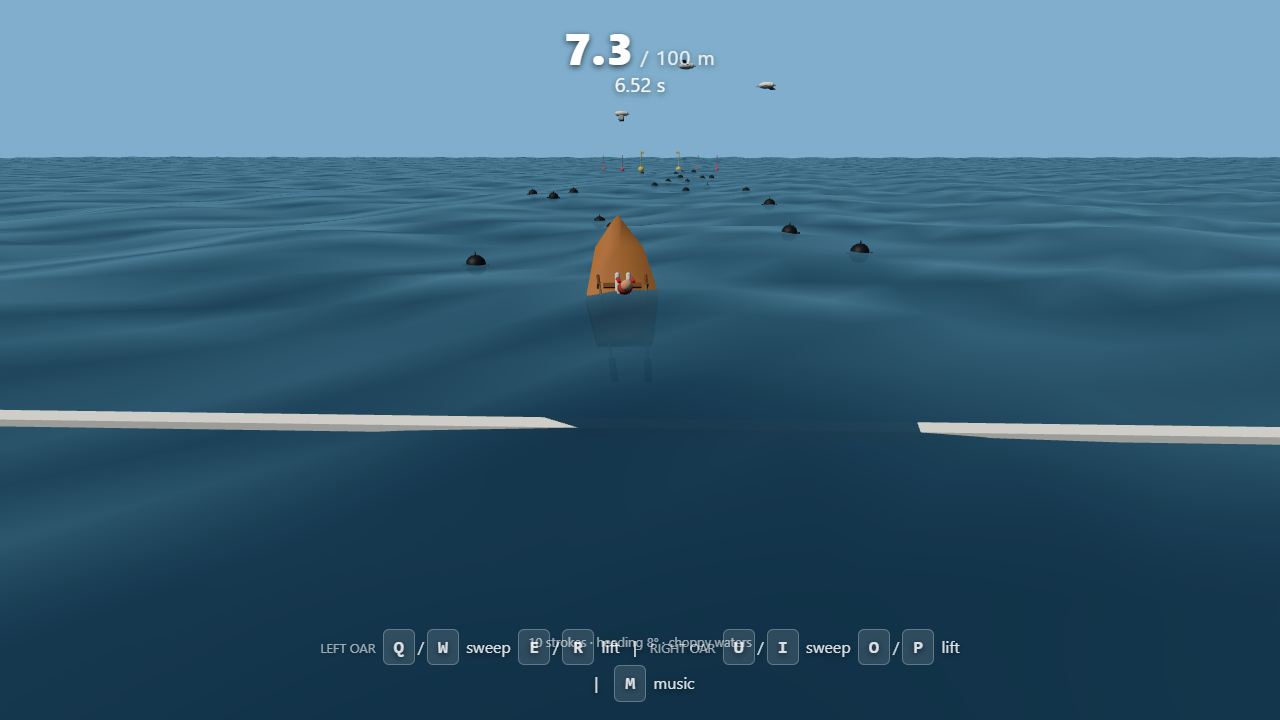
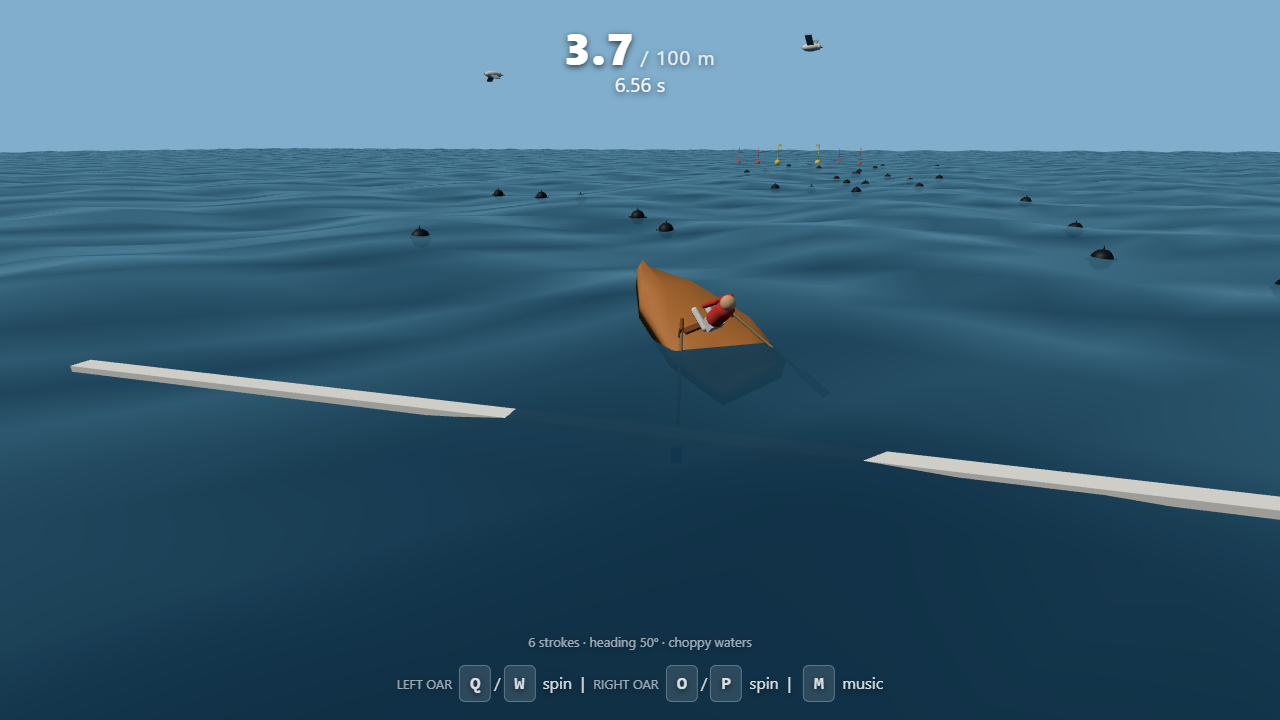
Double mine field width (x2 mine count), W/E + I/O key swap, control style picker synced to guests

diff --git a/index.html b/index.html
@@ -29,6 +29,9 @@
   #overlay button{font-size:19px;padding:11px 34px;border-radius:10px;border:1px solid rgba(255,255,255,.4);background:rgba(255,255,255,.12);color:#fff;cursor:pointer;letter-spacing:2px;margin:6px;}
   #overlay button:hover:not(:disabled){background:rgba(255,255,255,.25);}
   #overlay button:disabled{opacity:.35;cursor:default;}
+  #styleRow{display:flex;align-items:center;gap:8px;margin-top:14px;}
+  #styleRow button{font-size:15px;padding:8px 18px;margin:0;}
+  #styleRow button.active{background:rgba(255,215,107,.35);border-color:#ffd76b;}
   #modeRow{display:flex;gap:10px;justify-content:center;flex-wrap:wrap;}
   #joinRow{display:flex;gap:8px;justify-content:center;margin-top:6px;}
   #joinCode{font-size:20px;padding:8px 14px;border-radius:8px;border:1px solid rgba(255,255,255,.35);background:rgba(0,0,0,.3);color:#fff;text-transform:lowercase;width:190px;font-family:monospace;}
@@ -66,23 +69,24 @@
 <div id="stroke" class="hud"></div>
 <div id="msg" class="hud"></div>
 
-<div id="keys" class="hud">
-  <span class="lbl">LEFT OAR</span> <b>Q</b>/<b>W</b> sweep <b>E</b>/<b>R</b> lift
-  &nbsp;&nbsp;|&nbsp;&nbsp;
-  <span class="lbl">RIGHT OAR</span> <b>U</b>/<b>I</b> sweep <b>O</b>/<b>P</b> lift
-  &nbsp;&nbsp;|&nbsp;&nbsp; <b>M</b> music
-</div>
+<div id="keys" class="hud"></div>
 
 <div id="overlay">
   <h1>R O W P</h1>
-  <h2>steer between the yellow buoys to finish. seagulls bite.</h2>  <div class="k">
+  <h2>steer between the yellow buoys to finish. seagulls bite.</h2>
+  <div class="k" id="ctrlHelp">
     <b>Q</b><b>W</b><b>E</b><b>R</b> left oar &nbsp; <b>U</b><b>I</b><b>O</b><b>P</b> right oar
   </div>
-  <p>
+  <div id="styleRow">
+    <span style="opacity:.6;font-size:13px;">CONTROLS:</span>
+    <button id="btnStyleSpin">SPIN (360° oars)</button>
+    <button id="btnStyleSweep">SWING ±90° + LIFT</button>
+  </div>
+  <p id="ctrlDesc">
     Each oar has its rotation AND lift under your control. One stroke, the
     full circle: <b>R</b> dunk the blade, <b>Q</b> sweep it aft through the
-    water, <b>E</b> lift it out, <b>W</b> swing it forward, repeat. Right
-    oar: dunk <b>P</b>, pull <b>U</b>, lift <b>O</b>, forward <b>I</b>.
+    water, <b>W</b> lift it out, <b>E</b> swing it forward, repeat. Right
+    oar: dunk <b>P</b>, pull <b>U</b>, lift <b>I</b>, forward <b>O</b>.
     Feathers only exist where you put them — blade in the water going the
     wrong way is a brake. Mines, seagulls and waves do the rest.
   </p>
@@ -747,7 +751,7 @@ document.addEventListener('keydown', () => A.ensure(), { once: true });
 /* ============================================================
    SEA MINES — deterministic per race seed, proximity blast
    ============================================================ */
-const MINE_COUNT = 22;
+const MINE_COUNT = 30;
 const mineMat = new THREE.MeshStandardMaterial({ color: 0x16202a, roughness: 0.45, metalness: 0.4 });
 const mineLed = new THREE.MeshStandardMaterial({ color: 0xff2200, emissive: 0xff2200, emissiveIntensity: 2 });
 
@@ -782,7 +786,7 @@ function spawnMines(seedRng) {
     const led = new THREE.Mesh(new THREE.SphereGeometry(0.05, 6, 5), mineLed);
     led.position.y = 0.28;
     grp.add(led);
-    const mx = (seedRng() * 2 - 1) * 10.5;
+    const mx = (seedRng() * 2 - 1) * 21;
     const mz = 10 + (i * 86) / MINE_COUNT + seedRng() * 3.2;
     grp.position.set(mx, waveHeight(mx, mz, S.t) - 0.1, mz);
     mines.add(grp);
@@ -924,6 +928,7 @@ function showMsg(txt, color) {
 }
 
 let raceActive = false;
+let controlStyle = localStorage.getItem('rowp_style') || 'spin';
 
 function laneX(idx, n) {
   const off = idx - (n - 1) / 2;
@@ -971,6 +976,31 @@ function beginRace(seed, lane) {
   camPos.set(0, 3.4, -8);
   $('overlay').classList.add('hidden');
   A.goBoop();
+}
+
+function setControlStyle(style) {
+  controlStyle = style;
+  localStorage.setItem('rowp_style', style);
+  $('btnStyleSpin').classList.toggle('active', style === 'spin');
+  $('btnStyleSweep').classList.toggle('active', style === 'sweep');
+  $('ctrlHelp').innerHTML = style === 'spin'
+    ? '<b>Q</b>/<b>W</b> left oar spin &nbsp; <b>O</b>/<b>P</b> right oar spin'
+    : '<b>Q</b>/<b>E</b> left sweep &nbsp; <b>W</b>/<b>R</b> left lift &nbsp; <b>U</b>/<b>O</b> right sweep &nbsp; <b>I</b>/<b>P</b> right lift';
+  $('ctrlDesc').innerHTML = style === 'spin'
+    ? 'Classic rowing: press <b>Q</b>/<b>W</b> to spin the left oar in a full circle, <b>O</b>/<b>P</b> for the right. The blade dips and lifts itself as it rotates — find the power arc, avoid the backwater. Mines, seagulls and waves do the rest.'
+    : 'Each oar has sweep AND lift: <b>R</b> dunk, <b>Q</b> pull aft, <b>W</b> lift, <b>E</b> swing forward (right oar: <b>P</b>, <b>U</b>, <b>I</b>, <b>O</b>). The sweep is limited to ±90° — row the full rotation by timing lift and dunk. Mines, seagulls and waves do the rest.';
+  updateKeysHud();
+}
+
+function updateKeysHud() {
+  $('keys').innerHTML = controlStyle === 'spin'
+    ? `<span class="lbl">LEFT OAR</span> <b>Q</b>/<b>W</b> spin&nbsp;&nbsp;|&nbsp;&nbsp;<span class="lbl">RIGHT OAR</span> <b>O</b>/<b>P</b> spin&nbsp;&nbsp;|&nbsp;&nbsp;<b>M</b> music`
+    : `<span class="lbl">LEFT OAR</span> <b>Q</b>/<b>E</b> sweep <b>W</b>/<b>R</b> lift&nbsp;&nbsp;|&nbsp;&nbsp;<span class="lbl">RIGHT OAR</span> <b>U</b>/<b>O</b> sweep <b>I</b>/<b>P</b> lift&nbsp;&nbsp;|&nbsp;&nbsp;<b>M</b> music`;
+}
+
+function initStyleUI() {
+  $('btnStyleSpin').onclick = () => setControlStyle('spin');
+  $('btnStyleSweep').onclick = () => setControlStyle('sweep');
 }
 
 let endTimer = -1;
@@ -1085,16 +1115,38 @@ function step(dt) {
     prevSubL = subL; prevSubR = subR;
   }
   const kk = raceActive ? keys : EMPTY;
-  const kL = clamp1((kk.KeyQ ? 1 : 0) - (kk.KeyW ? 1 : 0) + touchAxisL.x);
-  const kR = clamp1((kk.KeyU ? 1 : 0) - (kk.KeyI ? 1 : 0) + touchAxisR.x);
-  const hL = clamp1((kk.KeyE ? 1 : 0) - (kk.KeyR ? 1 : 0) + touchAxisL.y);
-  const hR = clamp1((kk.KeyO ? 1 : 0) - (kk.KeyP ? 1 : 0) + touchAxisR.y);
+  const spin = controlStyle === 'spin';
+  const kL = spin
+    ? clamp1((kk.KeyQ ? 1 : 0) - (kk.KeyW ? 1 : 0) + touchAxisL.x)
+    : clamp1((kk.KeyQ ? 1 : 0) - (kk.KeyE ? 1 : 0) + touchAxisL.x);
+  const kR = spin
+    ? clamp1((kk.KeyO ? 1 : 0) - (kk.KeyP ? 1 : 0) + touchAxisR.x)
+    : clamp1((kk.KeyU ? 1 : 0) - (kk.KeyO ? 1 : 0) + touchAxisR.x);
+  let hL, hR;
+  if (spin) {
+    // blade depth follows the sweep automatically (like classic rowing oars)
+    const uL = Math.cos(S.aL), uR = Math.cos(S.aR);
+    const dL = uL > 0 ? -0.52 * uL * uL : 0.55 * uL * uL;
+    const dR = uR > 0 ? -0.52 * uR * uR : 0.55 * uR * uR;
+    const lamL = Math.asin(Math.max(-0.98, Math.min(0.98, dL)));
+    const lamR = Math.asin(Math.max(-0.98, Math.min(0.98, dR)));
+    hL = clamp1((lamL - S.lL) * 4.5);
+    hR = clamp1((lamR - S.lR) * 4.5);
+  } else {
+    hL = clamp1((kk.KeyW ? 1 : 0) - (kk.KeyR ? 1 : 0) + touchAxisL.y);
+    hR = clamp1((kk.KeyI ? 1 : 0) - (kk.KeyP ? 1 : 0) + touchAxisR.y);
+  }
   S.aLv = oarAxisStep(S.aLv, kL, loadL, dt);
   S.aRv = oarAxisStep(S.aRv, kR, loadR, dt);
-  S.aL = Math.max(SWEEP_MIN, Math.min(SWEEP_MAX, S.aL + S.aLv * dt));
-  S.aR = Math.max(SWEEP_MIN, Math.min(SWEEP_MAX, S.aR + S.aRv * dt));
-  if ((S.aL <= SWEEP_MIN || S.aL >= SWEEP_MAX) && Math.sign(S.aLv) === Math.sign(S.aL)) S.aLv = 0;
-  if ((S.aR <= SWEEP_MIN || S.aR >= SWEEP_MAX) && Math.sign(S.aRv) === Math.sign(S.aR)) S.aRv = 0;
+  if (spin) {
+    S.aL += S.aLv * dt;
+    S.aR += S.aRv * dt;
+  } else {
+    S.aL = Math.max(SWEEP_MIN, Math.min(SWEEP_MAX, S.aL + S.aLv * dt));
+    S.aR = Math.max(SWEEP_MIN, Math.min(SWEEP_MAX, S.aR + S.aRv * dt));
+    if ((S.aL <= SWEEP_MIN || S.aL >= SWEEP_MAX) && Math.sign(S.aLv) === Math.sign(S.aL)) S.aLv = 0;
+    if ((S.aR <= SWEEP_MIN || S.aR >= SWEEP_MAX) && Math.sign(S.aRv) === Math.sign(S.aR)) S.aRv = 0;
+  }
   S.lLv = oarLiftStep(S.lLv, hL, subL > 0.3, dt);
   S.lRv = oarLiftStep(S.lRv, hR, subR > 0.3, dt);
   S.lL = Math.max(LIFT_MIN, Math.min(LIFT_MAX, S.lL + S.lLv * dt));
@@ -1284,8 +1336,11 @@ function showLobbyHost(code) {
   $('btnBegin').style.display = '';
 }
 function showLobbyGuest() {
+  $('overlay').classList.remove('hidden');
+  $('mpPanel').classList.add('show');
+  $('mpPanel').style.display = '';
   $('mpCode').textContent = 'joined!';
-  $('mpStatus').textContent = 'waiting for the host to start the race…';
+  $('mpStatus').textContent = `connected — ${controlStyle} controls (host's choice). Waiting for start…`;
 }
 function showOverlayLobby() {
   $('overlay').classList.remove('hidden');
@@ -1330,6 +1385,10 @@ function onData(d, c) {
       break;
     case 'id':
       net.myId = d.id;
+      if (d.style) {
+        controlStyle = d.style;
+        setControlStyle(controlStyle);
+      }
       showLobbyGuest();
       break;
     case 'goLane':
@@ -1439,7 +1498,7 @@ function hostGame() {
     c.on('open', () => {
       c._gid = net.nextId++;
       net.conns.push(c);
-      c.send({ t: 'id', id: c._gid });
+      c.send({ t: 'id', id: c._gid, style: controlStyle });
       ensureRemoteRig(getRemote(c._gid));
       refresh();
     });
@@ -1836,6 +1895,8 @@ function initTouch() {
 }
 
 /* boot */
+initStyleUI();
+setControlStyle(controlStyle);
 initUIMulti();
 initTouch();
 if (location.search.indexOf('demo') >= 0) {
@@ -1843,15 +1904,16 @@ if (location.search.indexOf('demo') >= 0) {
   ov.classList.add('hidden');
   ov.style.display = 'none';
   $('msg').style.opacity = 0;
+  controlStyle = 'sweep';
   beginRace(123456);
   const kk = keys;
   for (let i = 0; i < 390; i++) {
     const norm = a => { a = ((a % TAU) + TAU) % TAU; return a > Math.PI ? a - TAU : a; };
     const raL = norm(S.aL), raR = norm(S.aR);
-    kk.KeyW = S.lL > 0.45 && raL > -0.35;       // forward swing while blade is raised
+    kk.KeyE = S.lL > 0.45 && raL > -0.35;       // forward swing while blade is raised
     kk.KeyR = raL < -0.3 && S.lL > 0.2;         // dunk when parked forward
     kk.KeyQ = S.lL < 0.1 && raL < 0.95;         // pull once blade is deep, until it's aft
-    kk.KeyE = raL > 0.95;                       // lift at the end of the stroke
+    kk.KeyW = raL > 0.95;                       // lift at the end of the stroke
     kk.KeyP = (raR < -0.3 && S.lR > 0.2);
     kk.KeyU = (S.lR < 0.1 && raR < 0.95);
     kk.KeyO = raR > 0.95;
